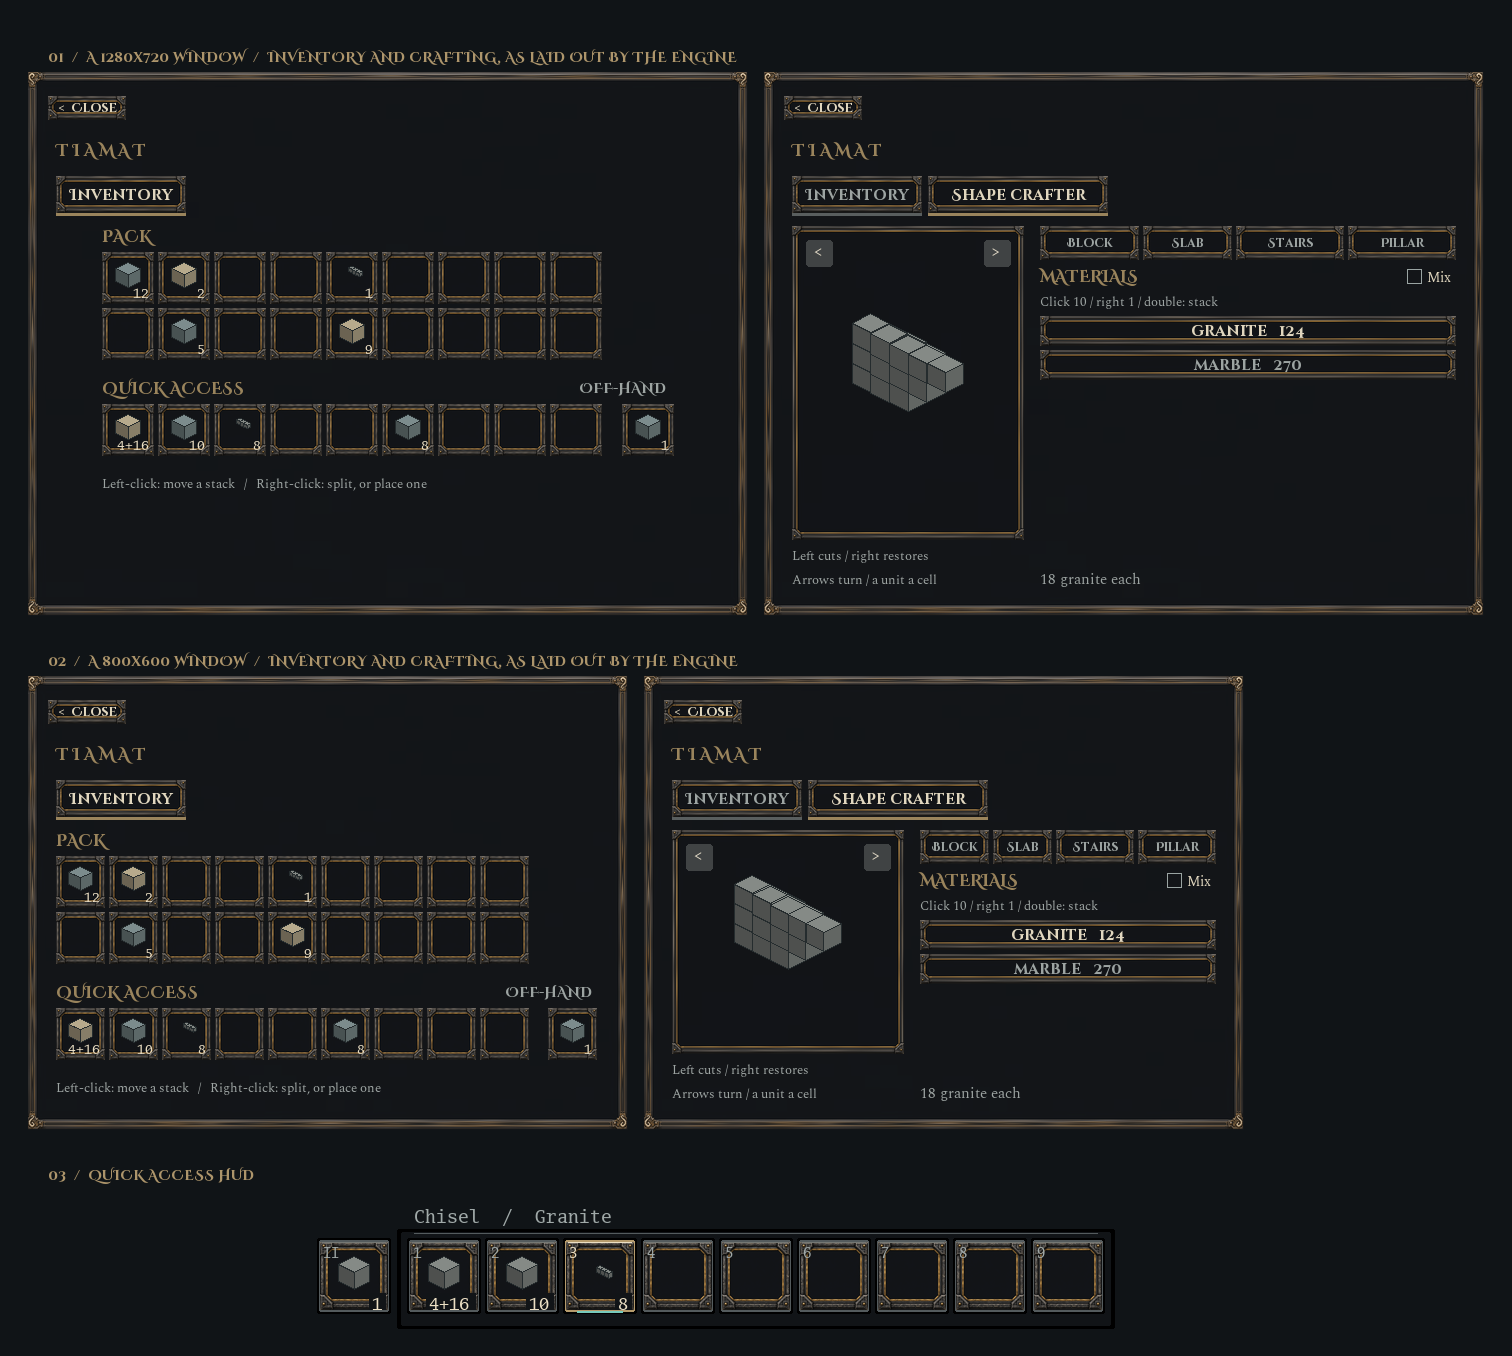
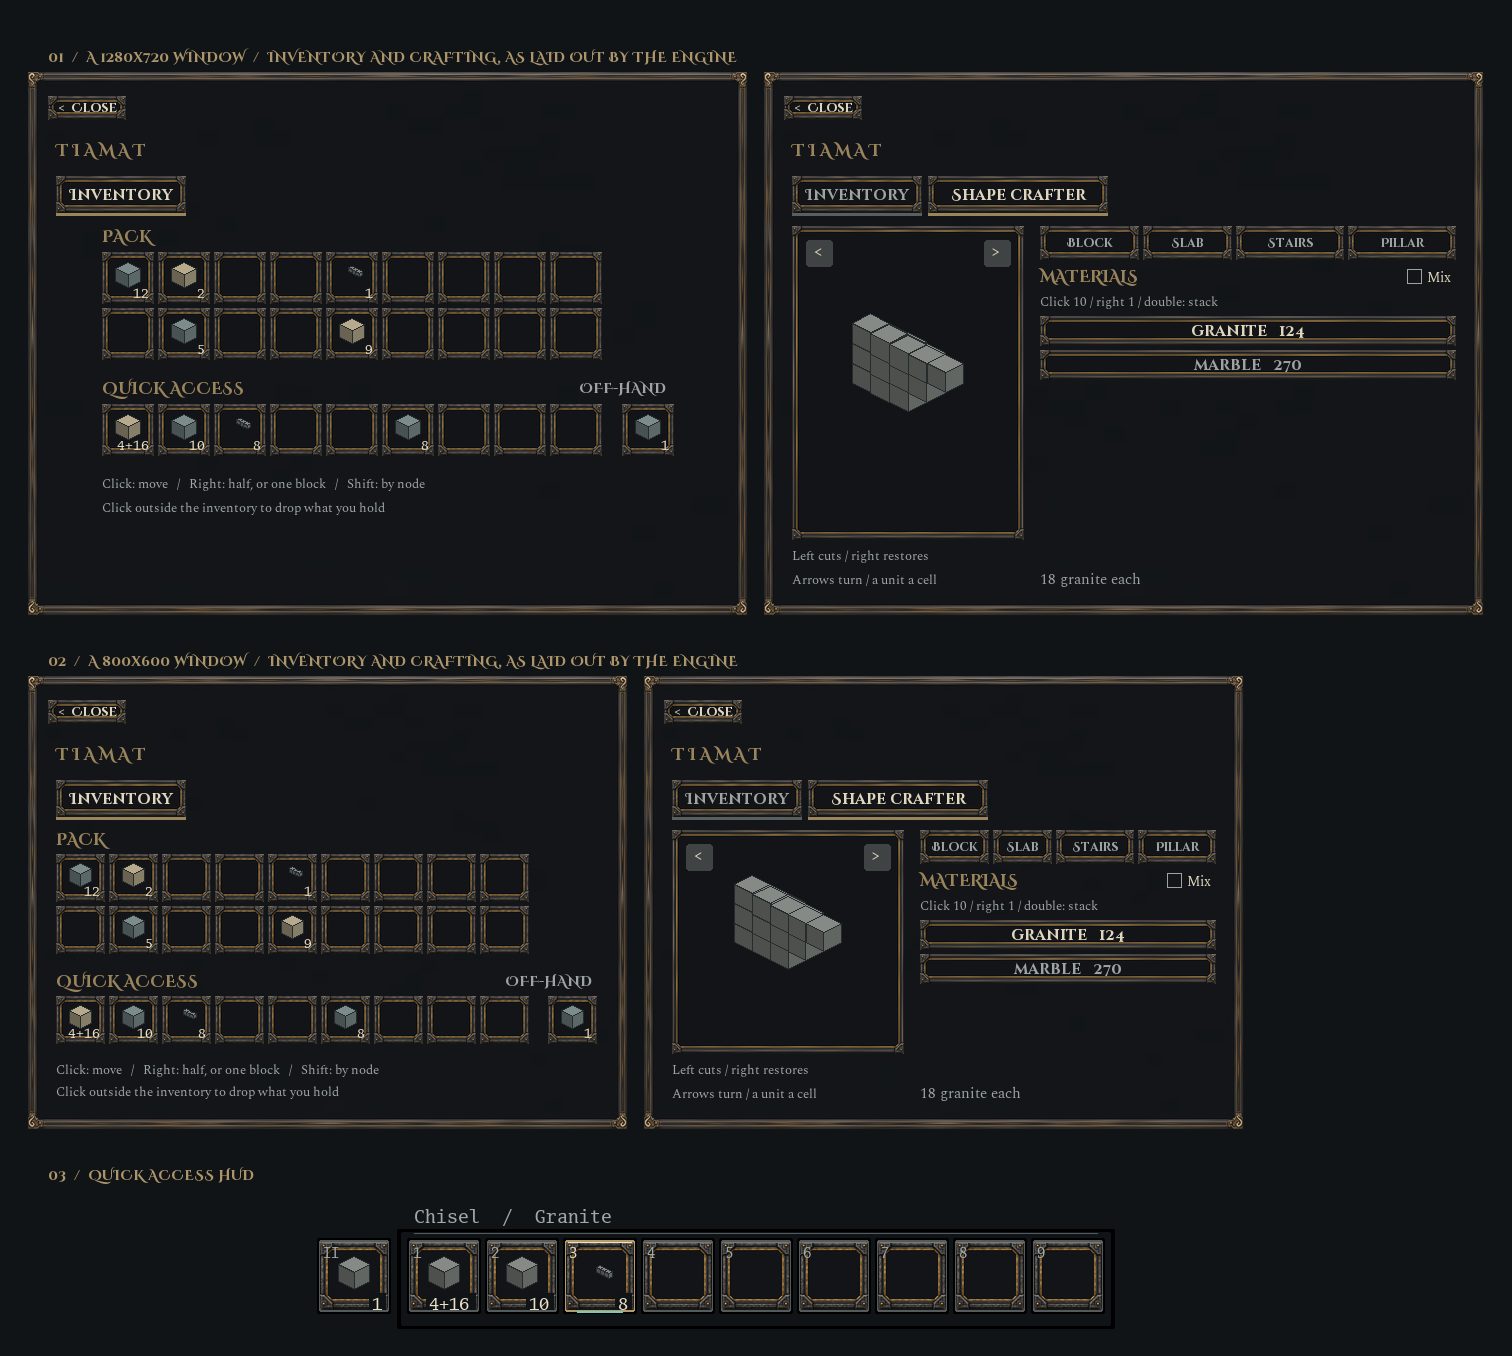
feat: whole blocks first, and a stack dropped outside the sheet (engine ask 21)
The engine landed ask 21 in 37098efe. The inventory now deals in whole
blocks (`set_slot_grain(27)`; shift with a right-click works by the node),
and a held stack clicked outside the sheet is thrown along `facing` and
picked back up by whoever walks over it, a full pack leaving the rest on
the ground (drops.lua). The native check drives the throw and the pickup
through the engine's own entity store; stubs and AGENTS.md re-vendored.

Changed region(s): [[0.0311, 0.6195, 0.4041, 0.8053], [0.0622, 0.3407, 0.2487, 0.3717]]

diff --git a/tests/native/src/main.rs b/tests/native/src/main.rs
@@ -21,9 +21,11 @@ use serde_json::{Value, json};
 use tiamat_core::{
     MaterialId,
     content::hash_bytes,
+    ent::{self, Entities, Entity, EntityId, Owner, Patch, Transform},
+    identity::PlayerUuid,
     hud::{self, Carried, Command, HeldTool, Look, State, Value as HudValue, Values},
     inventory::{Access, Shape, Stack, StackKey},
-    proto::{DialogEvent as Wire, Press},
+    proto::{Click, DialogEvent as Wire, Press},
     coords::SubNodePos,
     script::{
         ActionEvent, DialogEvent, EngineVm, HudLimits, HudVm, JoinEvent, LeaveEvent, ScriptVm, UseAim, UseEvent,
@@ -161,6 +163,76 @@ impl UiAccess for Screens {
     }
 }
 
+/// The world's entities: the engine's own store behind a lock, and players'
+/// bodies found by owner, as the engine's tests keep one.
+#[derive(Default)]
+struct World(Mutex<Entities>);
+
+impl World {
+    /// A body for `who`, standing at `at` and facing +Z.
+    fn body(&self, who: [u8; 32], at: [f64; 3]) -> EntityId {
+        let mut body = Entity::at(Transform::from_world(at[0], at[1], at[2]), "engine:player");
+        body.owner = Some(Owner(PlayerUuid::from_bytes(who)));
+        self.0.lock().unwrap().spawn(body)
+    }
+
+    /// The stacks lying on the ground, as `(units, shaped)`.
+    fn items(&self) -> Vec<(u32, bool)> {
+        let world = self.0.lock().unwrap();
+        world.iter().filter_map(|(_, e)| e.item.as_ref().map(|s| (s.units, s.shape.is_some()))).collect()
+    }
+}
+
+impl ent::Access for World {
+    fn spawn(&self, entity: Entity) -> Option<EntityId> {
+        Some(self.0.lock().unwrap().spawn(entity))
+    }
+
+    fn despawn(&self, id: EntityId) -> bool {
+        self.0.lock().unwrap().despawn(id).is_some()
+    }
+
+    fn get(&self, id: EntityId) -> Option<Entity> {
+        self.0.lock().unwrap().get(id).cloned()
+    }
+
+    fn patch(&self, id: EntityId, patch: &Patch) -> bool {
+        self.0.lock().unwrap().get_mut(id).is_some_and(|e| patch.apply(e))
+    }
+
+    fn player(&self, uuid: [u8; 32]) -> Option<EntityId> {
+        let world = self.0.lock().unwrap();
+        world.iter().find_map(|(id, e)| (e.owner.map(|o| *o.0.as_bytes()) == Some(uuid)).then_some(id))
+    }
+
+    fn within(&self, centre: [f64; 3], radius: f64, source: Option<&str>) -> Vec<EntityId> {
+        let world = self.0.lock().unwrap();
+        let centre = Transform::from_world(centre[0], centre[1], centre[2]);
+        world
+            .within(&centre, (radius * 3.0) as f32)
+            .into_iter()
+            .filter(|(id, _)| source.is_none_or(|wanted| world.get(*id).is_some_and(|e| e.source == wanted)))
+            .map(|(id, _)| id)
+            .collect()
+    }
+
+    fn move_player(&self, _: [u8; 32], _: [f64; 3]) -> bool {
+        false
+    }
+
+    fn select_slot(&self, _: [u8; 32], _: u16) -> bool {
+        false
+    }
+
+    fn shove_player(&self, _: [u8; 32], _: [f32; 3]) -> bool {
+        false
+    }
+
+    fn transfer(&self, _: EntityId, _: &str, _: [f64; 3]) -> bool {
+        false
+    }
+}
+
 // --- The rig -----------------------------------------------------------------
 
 struct Rig {
@@ -231,7 +303,22 @@ impl Rig {
             mod_id: MOD.into(),
             form: format!("{MOD}:inventory"),
             event,
+            dropped: None,
         });
+    }
+
+    /// A held stack clicked outside the sheet, already off the cursor:
+    /// whether the mod claimed it.
+    fn drop(&mut self, who: [u8; 32], click: Click, stack: Stack) -> bool {
+        self.vm
+            .dialog_event(&DialogEvent {
+                player: who,
+                mod_id: MOD.into(),
+                form: format!("{MOD}:inventory"),
+                event: Wire::Dropped { click },
+                dropped: Some(stack),
+            })
+            .claimed
     }
 
     /// Right-clicks a shape crafter block with an empty hand.
@@ -414,6 +501,40 @@ fn layout() {
     // theme's font, which is the display face, and read as small capitals.
     assert!(tree.nodes.iter().any(|n| n.style.font.as_deref() == Some(TEXT_FONT)));
     println!("ok  layout: 28 slots, quick access, pack, off-hand, iron frames only, both fonts, no scroll");
+}
+
+/// A held stack clicked outside the sheet lands in front of the player, and
+/// walking over it gives it back, once it has had time to leave their hands;
+/// what a full pack cannot take stays on the ground.
+fn a_stack_dropped_outside_lands_and_comes_back() {
+    let mut r = Rig::new(&[]);
+    r.key(ALICE);
+    let material = r.granite;
+    let granite = |units| Stack::new(material, units).unwrap();
+    assert!(!r.drop(ALICE, Click::Left, granite(54)), "with no world it was claimed, and lost");
+
+    let world = Arc::new(World::default());
+    r.vm.set_entity_access(world.clone());
+    assert!(!r.drop(ALICE, Click::Left, granite(54)), "with no body to throw from it was claimed");
+    world.body(ALICE, [0.5, 10.0, 0.5]);
+    assert!(r.drop(ALICE, Click::Right, granite(27)), "a block dropped outside was not claimed");
+    assert_eq!(world.items(), vec![(27, false)], "the block is not on the ground");
+    let _ = r.vm.tick(1);
+    assert_eq!(world.items().len(), 1, "it came straight back to the hand that dropped it");
+    let _ = r.vm.tick(60);
+    assert!(world.items().is_empty(), "standing on it did not pick it up");
+    assert_eq!(r.units(ALICE, r.granite), 27, "picked up, it is not in the pack");
+
+    // A pack with room for nine units of a cut picks those up and leaves
+    // the rest lying where it was.
+    r.inventory.0.lock().unwrap().shaped_room = Some(9);
+    let mut slab = granite(27);
+    slab.shape = Some(Shape::new(0x1FF).unwrap());
+    assert!(r.drop(ALICE, Click::Left, slab));
+    let _ = r.vm.tick(61);
+    assert_eq!(world.items(), vec![(18, true)], "what did not fit is not left on the ground");
+    assert!(r.vm.faulted_mods().is_empty(), "{:?}", r.vm.faulted_mods());
+    println!("ok  a stack dropped outside the sheet lands in the world and is picked back up");
 }
 
 /// The shape crafter is a block's: its tab is not in the inventory a player
@@ -1616,6 +1737,7 @@ fn core_ui_stands_aside_for_it() {
 fn main() {
     layout();
     the_crafter_is_at_its_block();
+    a_stack_dropped_outside_lands_and_comes_back();
     other_mods_add_presets();
     empty_crafter();
     full_and_empty_masks_do_not_spend();

diff --git a/AGENTS.md b/AGENTS.md
@@ -20,6 +20,19 @@ If the copy of this file in your mod is older than this list, re-vendor
 `api/` from the engine's `main` and read the sections named here. Each item
 is a mechanism a mod may now use; none of them changes a mod that ignores it.
 
+- **Whole blocks first, and a stack dropped outside the sheet** (2026-10-12,
+  UI ask 21). `game.set_slot_grain(27)`, registration only, makes a plain
+  right-click split and place loose material in whole blocks (a cut in whole
+  cuts); shift+right-click is the unit gesture it used to be. A click outside
+  every open screen with a stack on the cursor reaches the screen's owner as
+  `kind = "dropped"` with `click` and the `stack` that has already left the
+  player — all of it, one block, one unit; answer `true` to keep it, or the
+  engine puts it back on the cursor. Nothing changes for a mod that asks for
+  neither.
+- **A grant may say no to an operator's flight** (2026-10-13, Life ask 22).
+  `game.set_player_abilities(uuid, { operator_fly = false })` makes the grant
+  the whole answer for that player: the operator list no longer OR-s flight
+  in. Left out, nothing changes.
 - **A cover never stands on a passable cell** (2026-10-12, World ask 46).
   `buf:fill_cover` takes a cell whose material is `passable` as neither
   ground nor empty, so one call's grass is not the next call's floor and is

diff --git a/README.md b/README.md
@@ -111,7 +111,11 @@ Press **E** (rebindable) to open and close the screen.
 - **Inventory.** 28 slots: 1–9 are quick access, 10–27 the pack and 28 the
   off-hand, and the inventory holds no more than that: a full pack refuses a
   pickup rather than hiding it. Worn slots are separate views and not counted.
-  Left-click moves a stack, right-click splits or places one.
+  It deals in whole blocks: left-click moves a stack, right-click takes half
+  of one to the nearest block or puts down one block, and shift with the
+  right-click does the same by the node. Click outside the screen with a
+  stack held to drop it in front of you (a right-click drops one block);
+  walk over it to pick it back up. Dropped stacks last five minutes.
 - **The shape crafter** is a block: place one and right-click it, as you
   would a crafting table, and the screen opens on its tab. It is not in the
   inventory you carry. Carve the cube on the left: left-click takes a cell

diff --git a/docs/engine-asks.md b/docs/engine-asks.md
@@ -29,7 +29,13 @@ rectangle rather than a bottom band (a HUD saying "keep clear of the bottom
 right, 150 by 360"), with sheets narrowing before they overlap it. The mod
 cannot move a sheet itself.
 
-## 21. Whole blocks first, and a held stack dropped outside the sheet (2026-10-12, from the designer)
+## 21. Whole blocks first, and a held stack dropped outside the sheet (2026-10-12, from the designer): LANDED 2026-10-12 (engine 37098efe, protocol 89), awaiting the eye
+
+**Landed as asked.** `game.set_slot_grain(27)`, `Click::ShiftRight` and a
+`"dropped"` dialog event a handler claims by answering `true`; anything else
+puts the stack back on the cursor. The mod sets the grain at load, throws a
+claimed stack along `facing` and picks it back up (`drops.lua`); the native
+check drives both through the engine's own entity store.
 
 **Wanted.** Two things a player brings from every block game:
 
